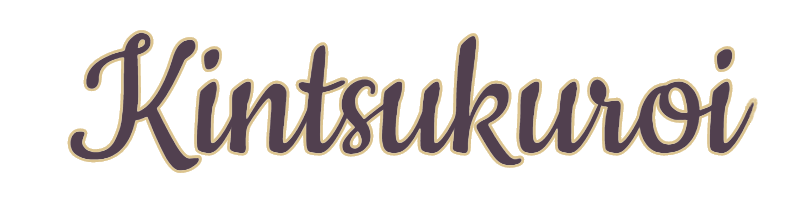
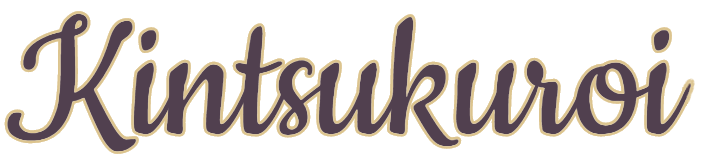
header finally in navbar

diff --git a/public/css/style.css b/public/css/style.css
@@ -27,6 +27,11 @@ a:hover {
   color: #51404f;
 }
 
+.logo-image {
+    max-height: 64px!important;
+    padding: 7px 0!important;
+}
+
 #logo {
 	max-width: 100%;
 	background-color: #d3c1c3;
@@ -34,6 +39,7 @@ a:hover {
   margin: 0 auto;
   border-radius: 12px;
 }
+
 
 .btn-large {
 	background-color: #51404f;
